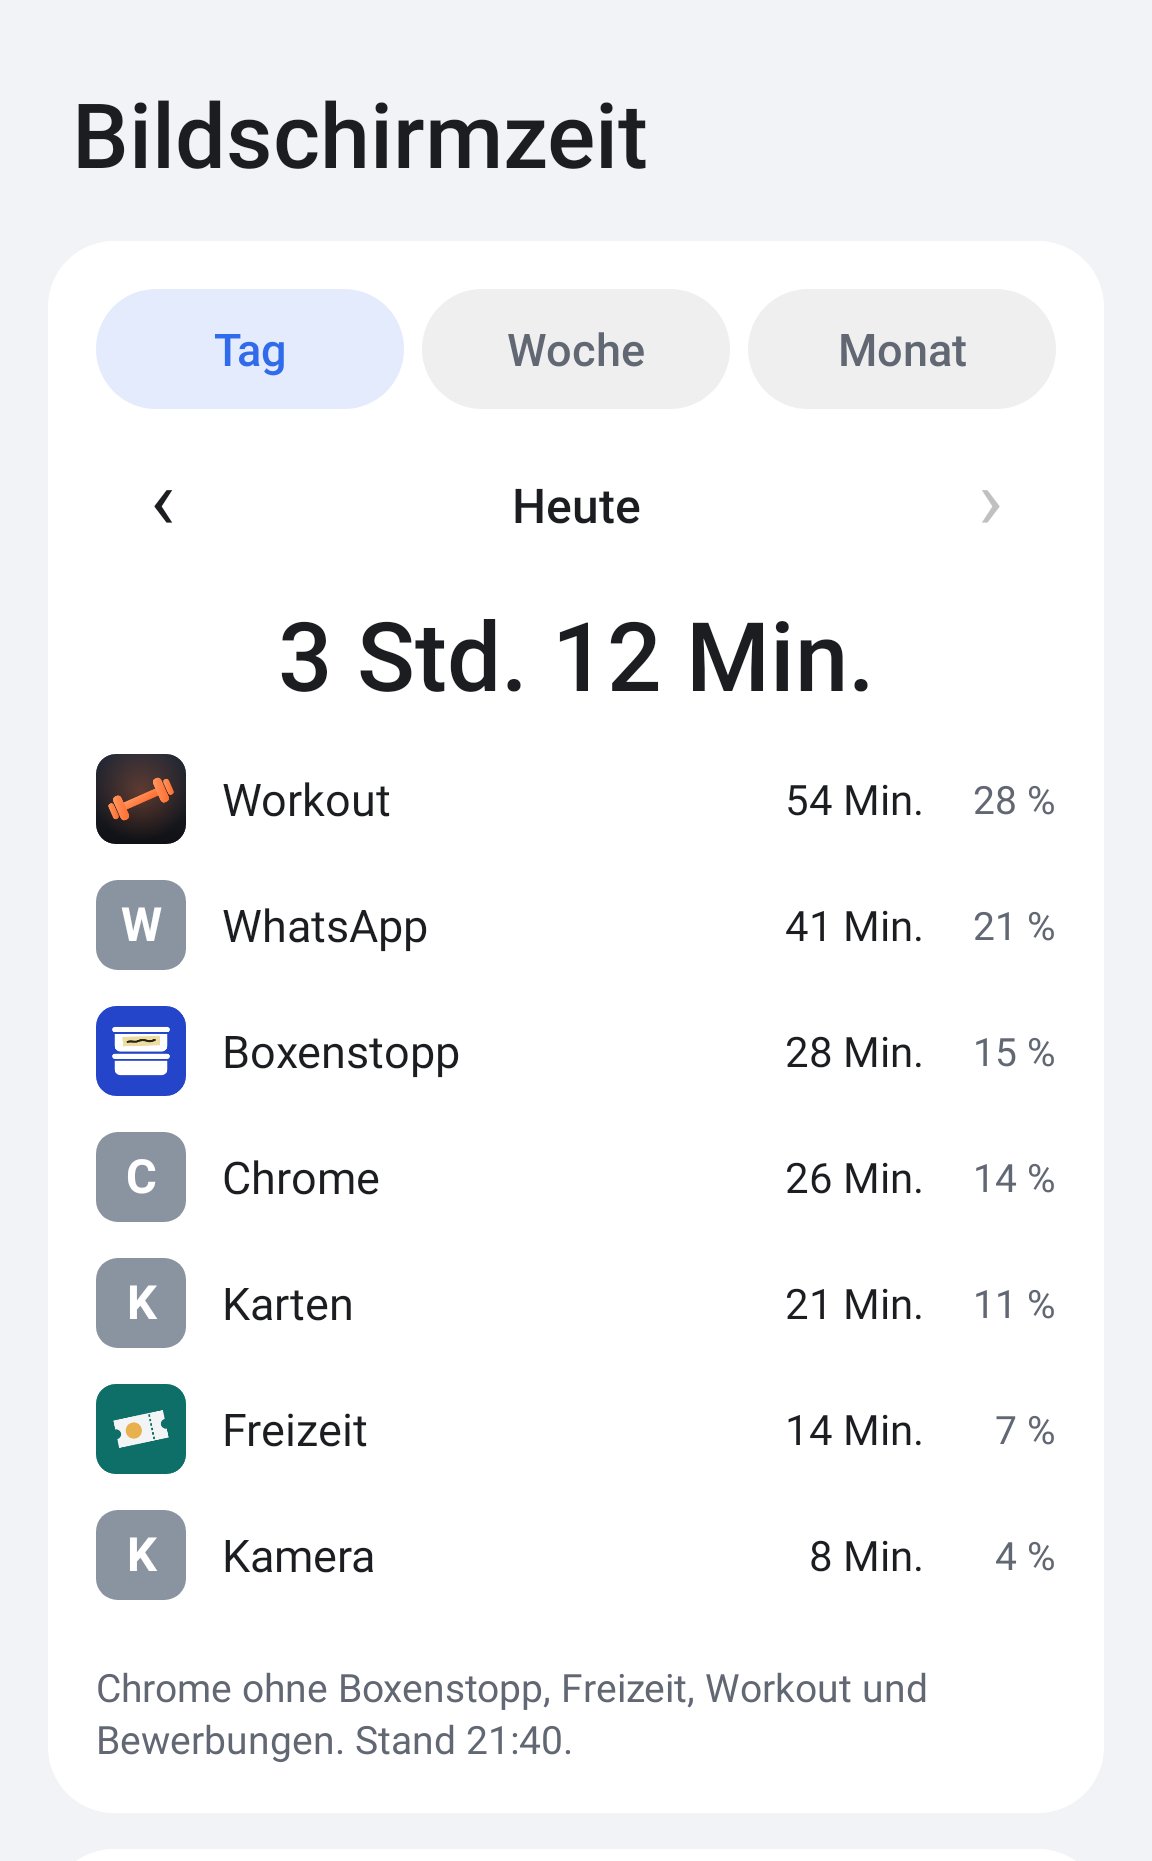
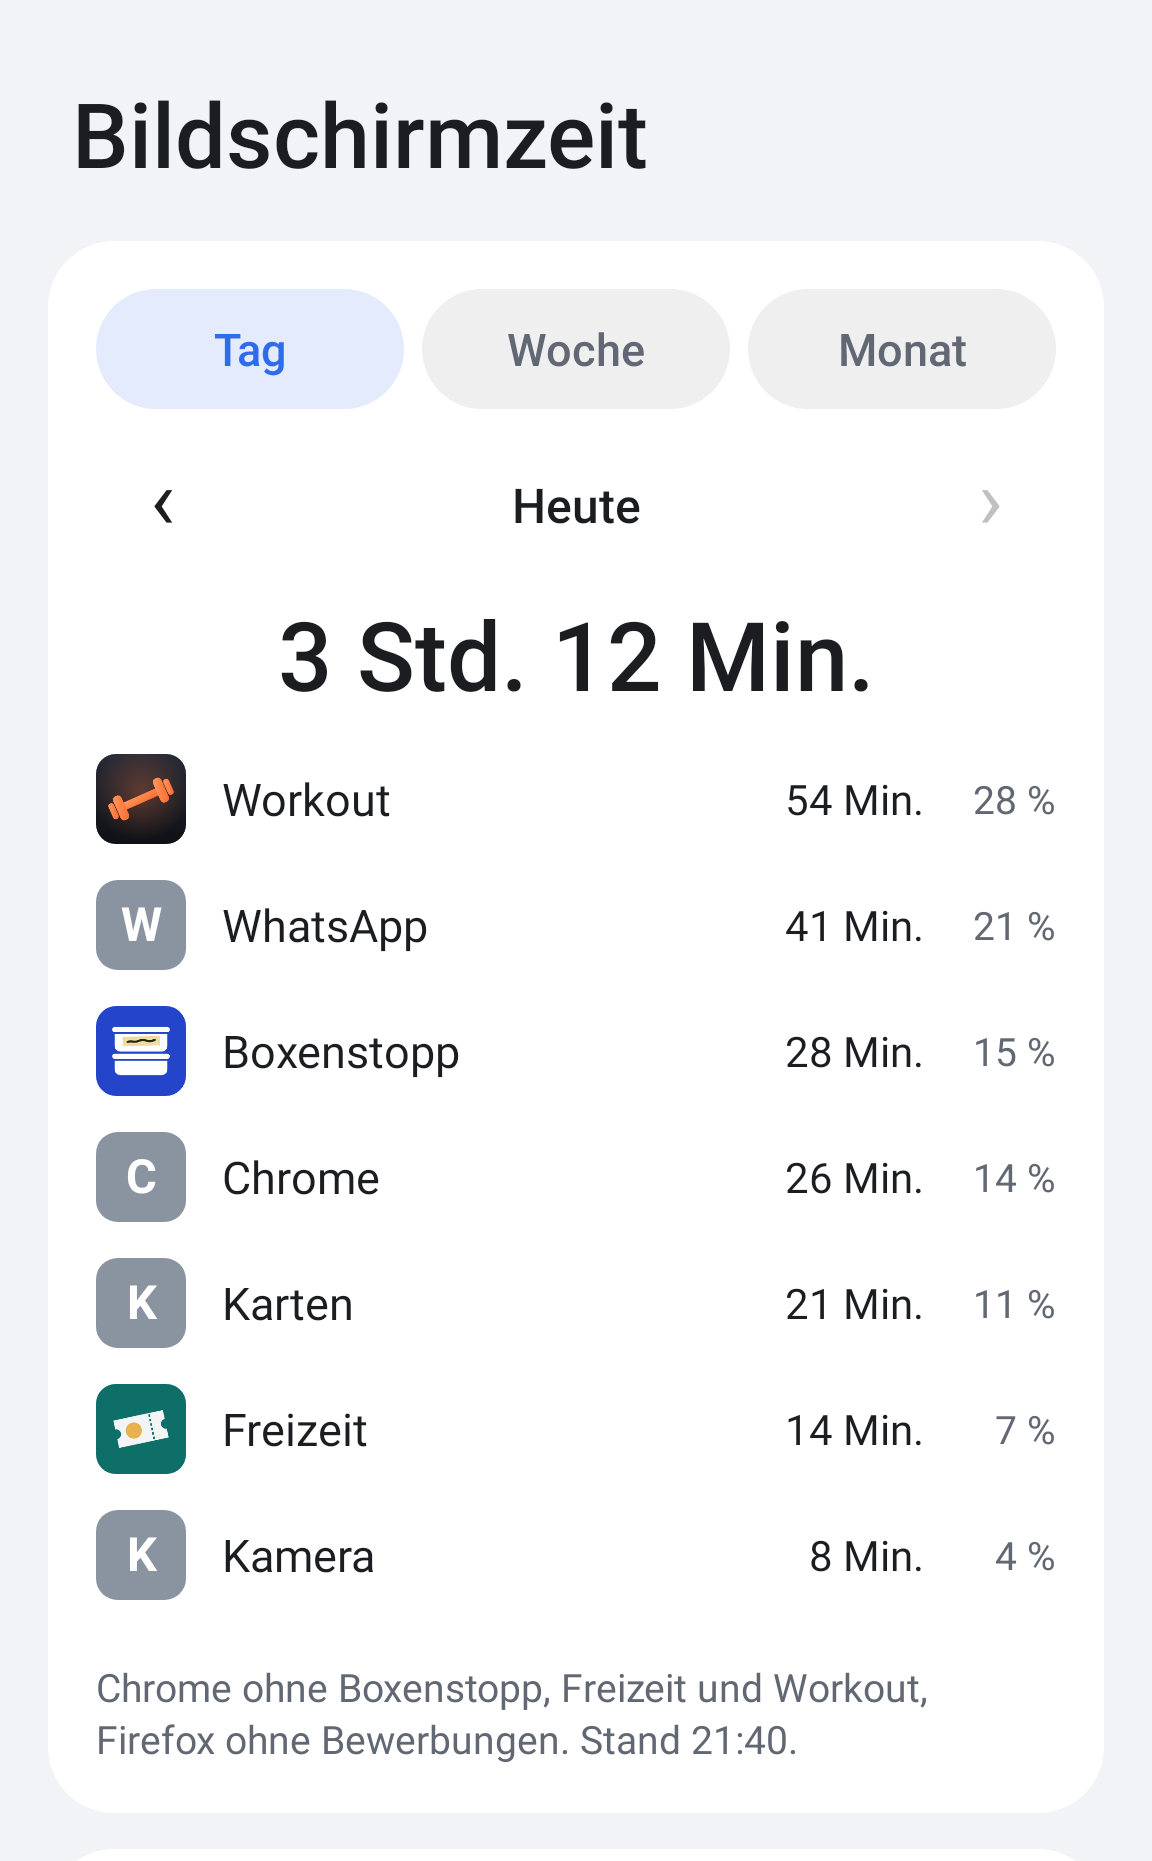
Verlauf: Bewerbungszentrale aus Firefox auch beim Neuaufteilen, Vorschaubilder
Claude-Session: https://claude.ai/code/session_01T7EkPJSfPQa2bVA75hcf3v

diff --git a/android/app/src/test/kotlin/de/finanzdienste/bildschirmzeit/VerlaufTest.kt b/android/app/src/test/kotlin/de/finanzdienste/bildschirmzeit/VerlaufTest.kt
@@ -120,6 +120,23 @@ class VerlaufTest {
         assertEquals(listOf(CHROME to 120L), webapk.posten.map { it.schluessel to it.sekunden })
     }
 
+    /**
+     * Seit 21.11. läuft die Bewerbungszentrale in Firefox: Ihre Zeit kommt von dort, auch beim Neuaufteilen,
+     * wenn sie verspätet meldet. Ein alter Tag, an dem sie noch aus Chrome kam, bleibt dabei, wie er war.
+     */
+    @Test
+    fun bewerbungszentraleKommtAusFirefox() {
+        val tag = tagAus(heute, mapOf(CHROME to 1800L, FIREFOX to 2400L), mapOf("bewerbungszentrale" to 900L, "workout" to 600L), 5L, false) { "Name $it" }
+        assertEquals(mapOf(CHROME to 1200L, "workout" to 600L, FIREFOX to 1500L, "bewerbungszentrale" to 900L), tag.posten.associate { it.schluessel to it.sekunden })
+        assertEquals(mapOf(CHROME to 1800L, FIREFOX to 2400L), tag.androidTeil())
+        val spaeter = tag.mitWeb(mapOf("bewerbungszentrale" to 1200L, "workout" to 600L), 6L)
+        assertEquals(mapOf(CHROME to 1200L, "workout" to 600L, FIREFOX to 1200L, "bewerbungszentrale" to 1200L), spaeter.posten.associate { it.schluessel to it.sekunden })
+        assertEquals(tag.gesamt, spaeter.gesamt)
+        // So gespeichert, als sie noch in Chrome lief: neu aufgeteilt bleibt der Tag gleich.
+        val alt = Tag(heute.minusDays(3), sortiert(listOf(Posten(CHROME, "Chrome", 1200L), Posten("bewerbungszentrale", "Bewerbungen", 900L))), mapOf("bewerbungszentrale" to 900L), 5L, true)
+        assertEquals(alt.posten.toSet(), alt.mitWeb(mapOf("bewerbungszentrale" to 900L), 6L).posten.toSet())
+    }
+
     @Test
     fun webEintragenNurWasSichAendert() {
         val d = heute.minusDays(2)

diff --git a/android/app/src/main/kotlin/de/finanzdienste/bildschirmzeit/Verlauf.kt b/android/app/src/main/kotlin/de/finanzdienste/bildschirmzeit/Verlauf.kt
@@ -23,9 +23,9 @@ import java.time.format.DateTimeParseException
 /** Ein Kalendertag im Verlauf. */
 data class Tag(
     val datum: LocalDate,
-    /** Sekunden je App nach dem Abzug der Web-Apps von Chrome, absteigend (wie im Widget). */
+    /** Sekunden je App nach dem Abzug der Web-Apps von ihrem Browser, absteigend (wie im Widget). */
     val posten: List<Posten>,
-    /** Was die Web-Apps für den Tag gemeldet hatten – vor dem Kürzen auf Chromes Zeit. */
+    /** Was die Web-Apps für den Tag gemeldet hatten – vor dem Kürzen auf die Zeit ihres Browsers. */
     val web: Map<String, Long> = emptyMap(),
     /** Wann diese Web-Werte von Supabase gelesen wurden (ms); 0 = noch nie, dann fehlen sie noch. */
     val webGelesen: Long = 0L,
